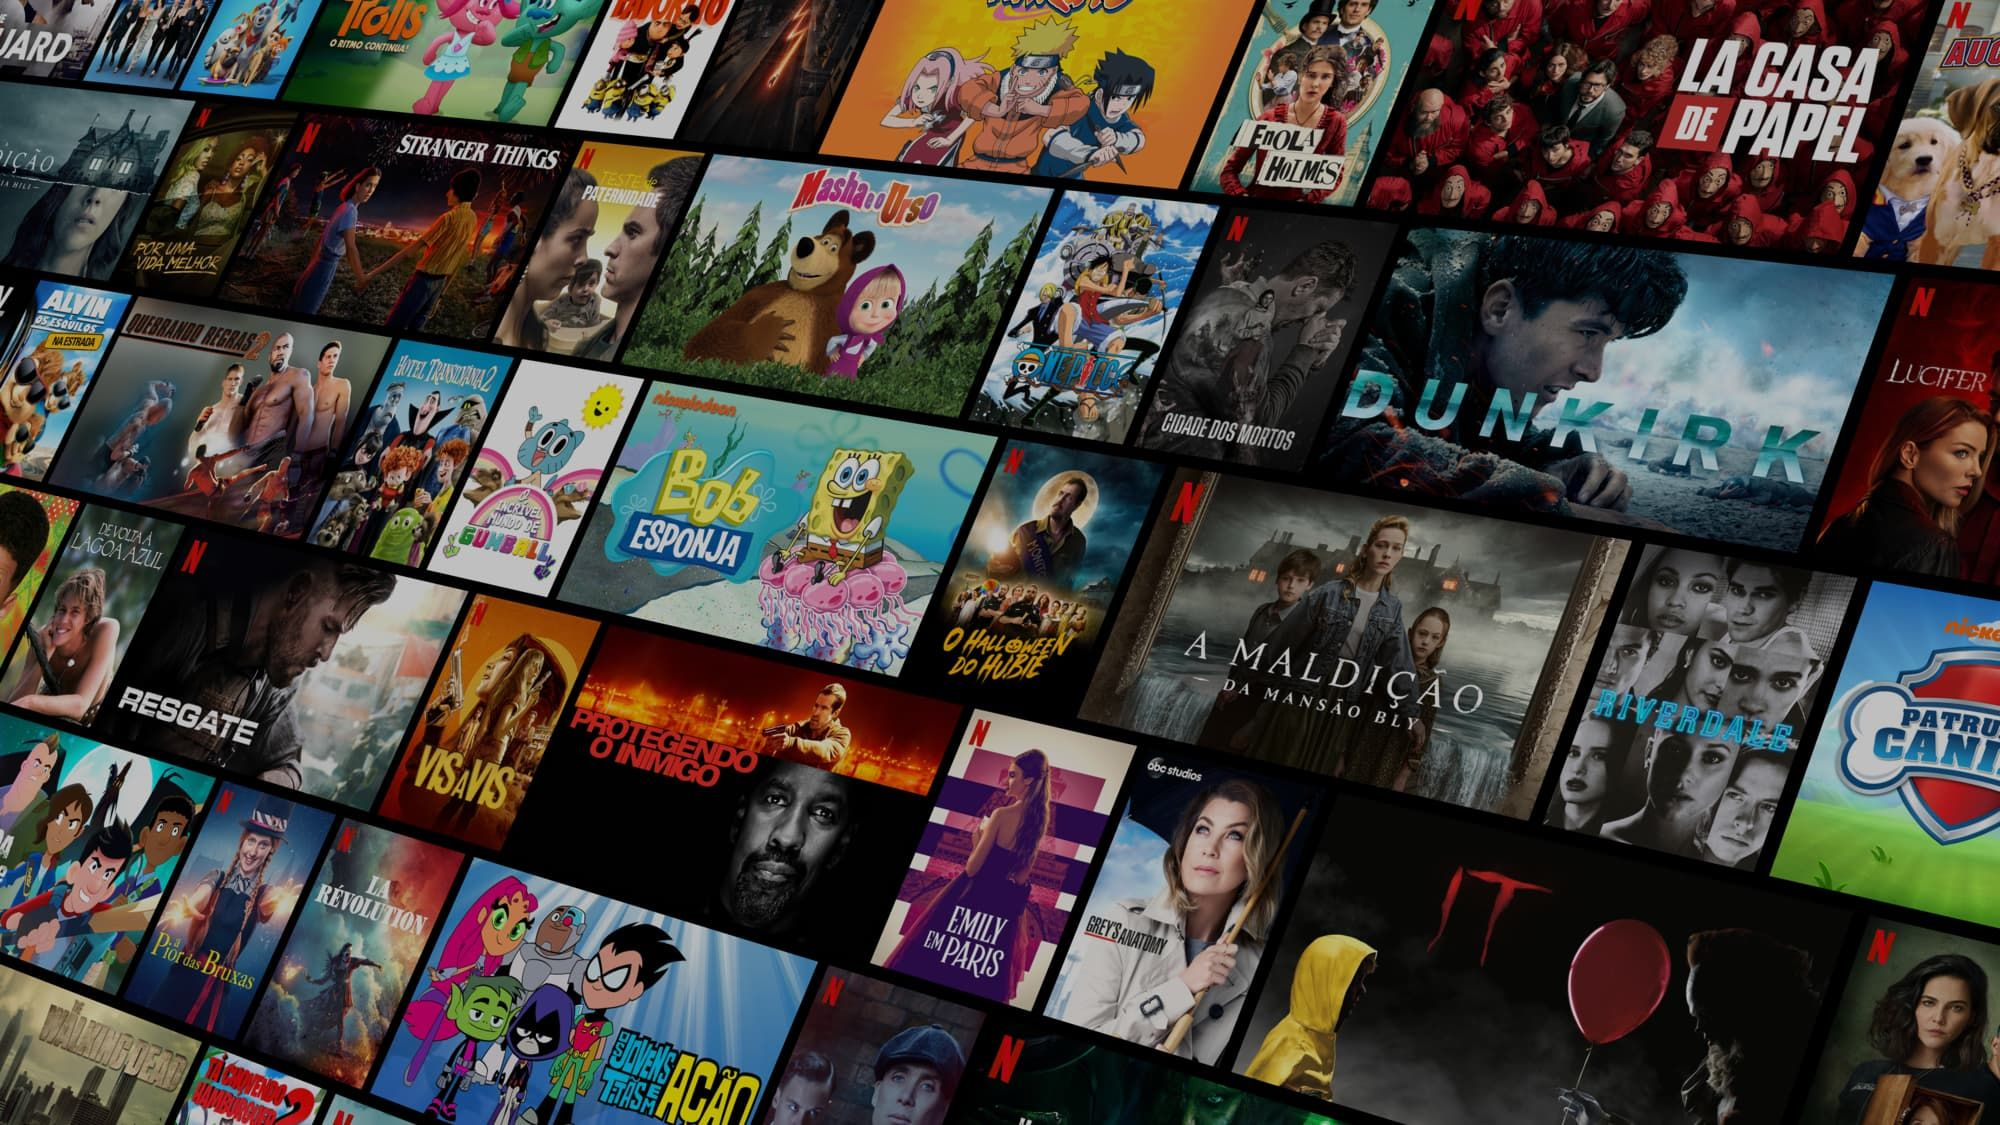
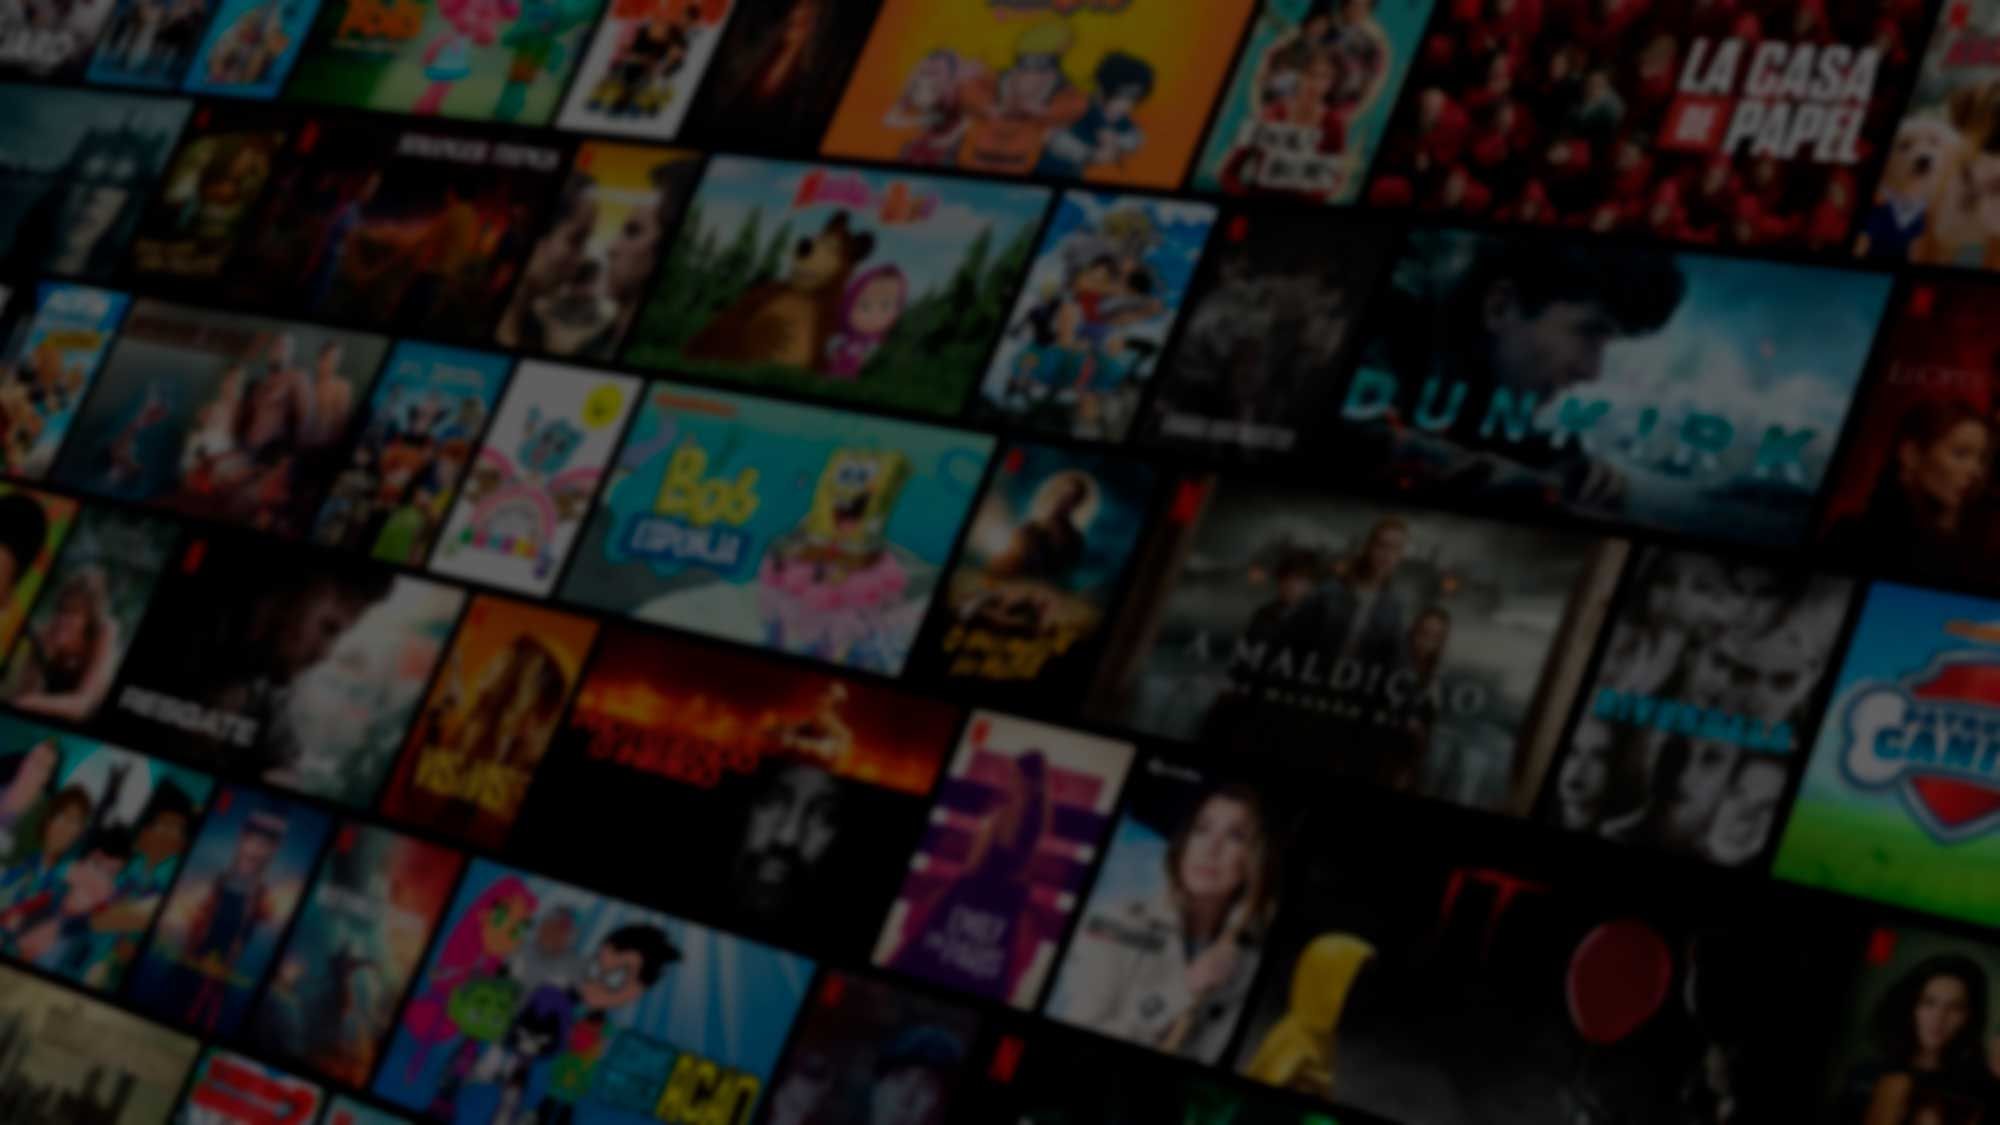
the basics working

diff --git a/index.html b/index.html
@@ -10,17 +10,21 @@
 </head>
 
 <body>
+
   <div class="container">
+
     <h1 class="page-title">
       Aluraflix
     </h1>
     <img src="https://www.alura.com.br/assets/img/imersoes/dev-2021/logo-imersao-aluraflix.svg" class="page-logo"
       alt="">
     <p class="page-subtitle">
-      Qual seu filme favorito?
+      Adicione seus filmes favoritos ao catálogo.
     </p>
+
     <div class="form-wrapper">
-      <input type="text" id="filme" name="filme" placeholder="Insira endereço de imagem">
+      <input type="text" id="enderecoFilme" name="enderecoFilme" placeholder="Insira endereço de imagem">
+      <input type="text" id="enderecoTrailer" name="enderecoTrailer" placeholder="Insira endereço do trailer">
       <select name="" id="">
         <option value="">Ação</option>
         <option value="">Comédia</option>
@@ -28,8 +32,13 @@
       </select>
       <button onClick="adicionarFilme()" class="btn">Adicionar Filme</button>
     </div>
+
   </div>
   <div id="listaFilmes"></div>
+
+  
+
+
   <a href="https://alura.com.br/" target="_blank">
     <img src="https://www.alura.com.br/assets/img/home/alura-logo.svg" alt="" class="alura-logo">
   </a>

diff --git a/css/style.css b/css/style.css
@@ -1,7 +1,14 @@
+* {
+  margin: 0;
+  padding: 0;
+  border: none;
+  outline: none;
+}
+
 body {
   font-family: "Roboto Mono", monospace;
   text-align: center;
-  background-image: url("https://www.alura.com.br/assets/img/imersoes/dev-2021/dia-04-aluraflix-e-filmes.png");
+  background-image: url("../img/bg.jpg");
   background-color: #000000;
   background-size: cover;
   background-position: center top;
@@ -41,28 +48,31 @@ body {
 
 .form-wrapper {
   display: flex;
-  /* margin: 0 0 15px; */
+  margin: 20px 0;
   align-items: center;
   justify-content: center;
 }
 
-.form-wrapper input {
-  /* display: block;
-  margin: 0 auto; */
-  padding: 10px 15px;
+.form-wrapper input,
+select {
+  padding: 15px 20px;
+  border-radius: 4px;
+  margin-right: 10px;
+}
+
+input#enderecoFilme {
+  padding: 16px 20px;
 }
 
 .btn {
   color: #ffffff;
-  border: none;
   background: #da1e26;
   font-weight: bold;
-  padding: 15px 20px;
   font-size: 16px;
-  border-radius: 4px;
-  margin-top: 25px;
   cursor: pointer;
   transition: 0.3s;
+  padding: 15px 20px;
+  border-radius: 4px;
 }
 
 .form-wrapper button:hover {

diff --git a/js/script.js b/js/script.js
@@ -1,16 +1,16 @@
 function adicionarFilme() {
-  var filmeFavorito = document.getElementById("filme").value;
-  if (filmeFavorito.endsWith(".jpg")) {
-    listarFilmesNaTela(filmeFavorito);
+  var enderecoFilme = document.getElementById("enderecoFilme").value;
+  if (enderecoFilme.endsWith(".jpg") || enderecoFilme.endsWith(".png")) {
+    listarFilmesNaTela(enderecoFilme);
   } else {
     console.error("Endereço do filme inválido");
   }
-  document.getElementById("filme").value = "";
+  document.getElementById("enderecoFilme").value = "";
 }
 
-function listarFilmesNaTela(filme) {
-  var elementoFilmeFavorito = "<img src=" + filme + ">";
+function listarFilmesNaTela(enderecoFilme) {
+  var elementoInserirFilme = "<img src=" + enderecoFilme + ">";
   var elementoListaFilmes = document.getElementById("listaFilmes");
-  elementoListaFilmes.innerHTML += elementoFilmeFavorito;
+  elementoListaFilmes.innerHTML += elementoInserirFilme;
 }
 
